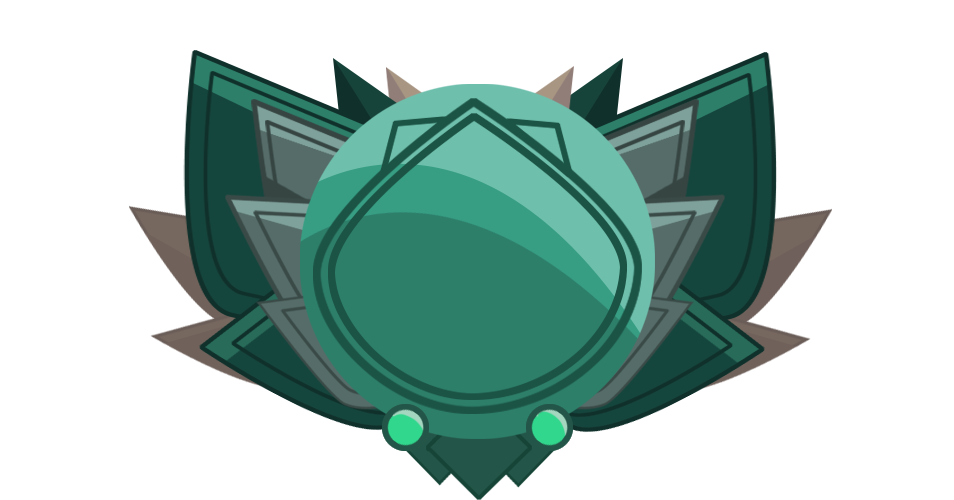
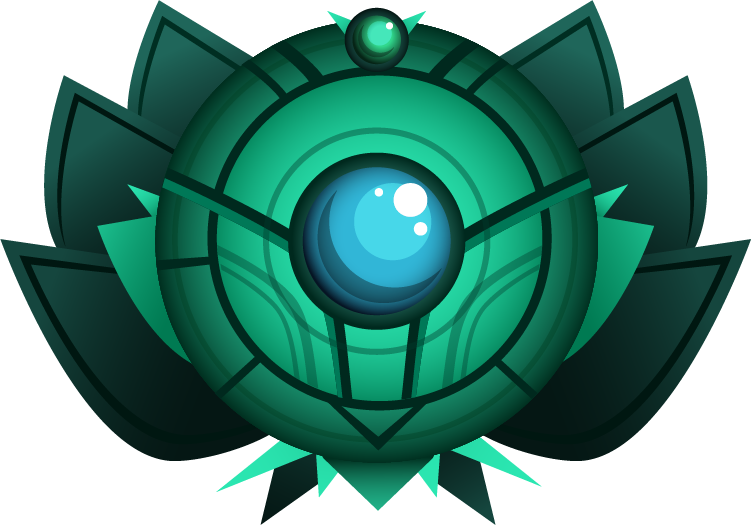
Update rank badges

diff --git a/src/App.js b/src/App.js
@@ -63,7 +63,7 @@ const LolByteApp = () => {
     <Provider store={store}>
       <NavigationContainer>
         <Stack.Navigator>
-          <Stack.Screen name="LolByte" component={Home} />
+          <Stack.Screen name="Home" component={Home} />
           <Stack.Screen name="Profile" component={Profile} />
         </Stack.Navigator>
       </NavigationContainer>

diff --git a/src/components/profile/Rank.js b/src/components/profile/Rank.js
@@ -36,7 +36,7 @@ Rank.defaultProps = {
       uri: require('../../img/ranks/diamond.png'),
     },
     master: {
-      uri: require('../../img/ranks/diamond.png'),
+      uri: require('../../img/ranks/master.png'),
     },
     grandmaster: {
       uri: require('../../img/ranks/grandmaster.png'),

diff --git a/src/components/Home.js b/src/components/Home.js
@@ -60,7 +60,7 @@ const styles = StyleSheet.create({
   },
   logo: {
     alignItems: 'center',
-    marginTop: '5%',
+    marginTop: '10%',
   },
   search: {
     alignItems: 'center',
